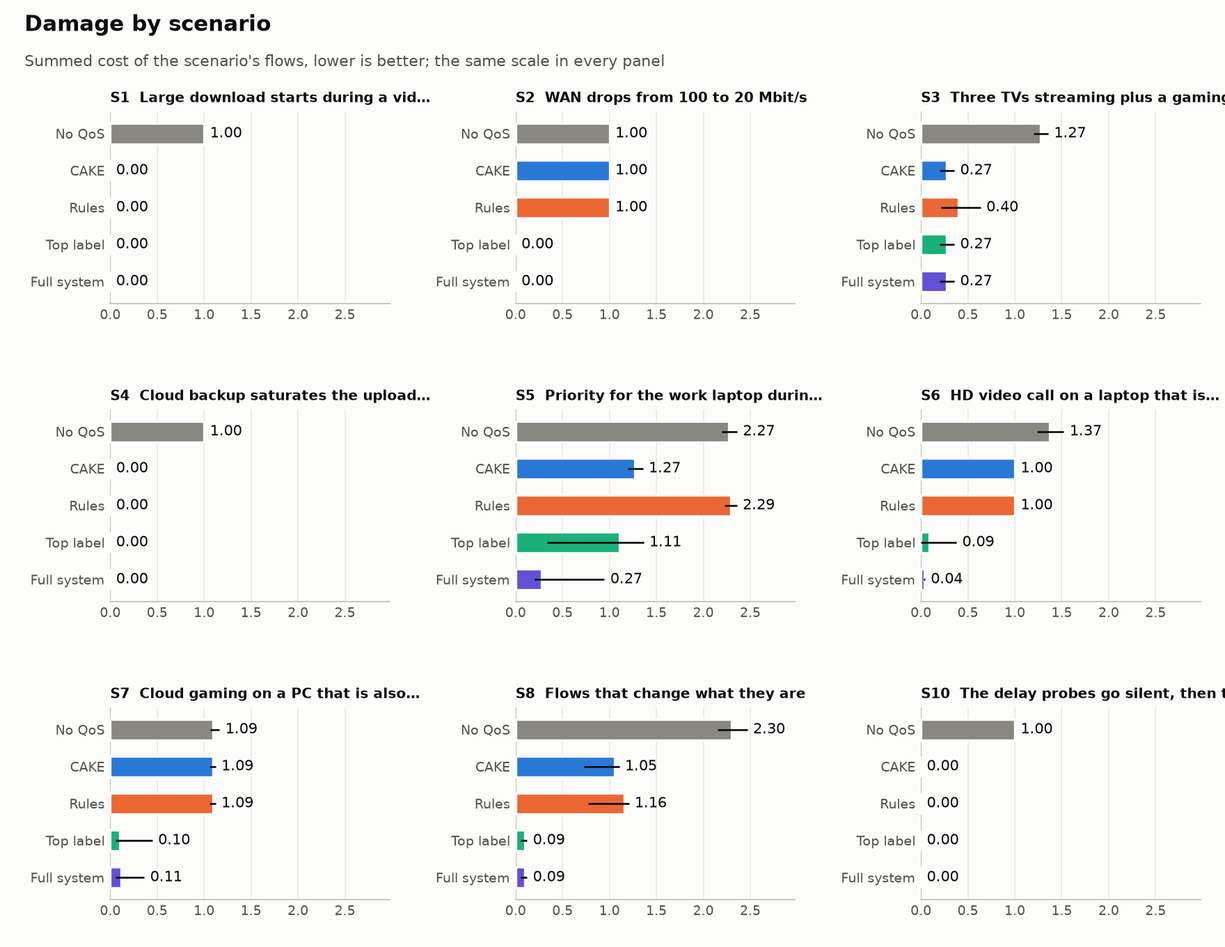
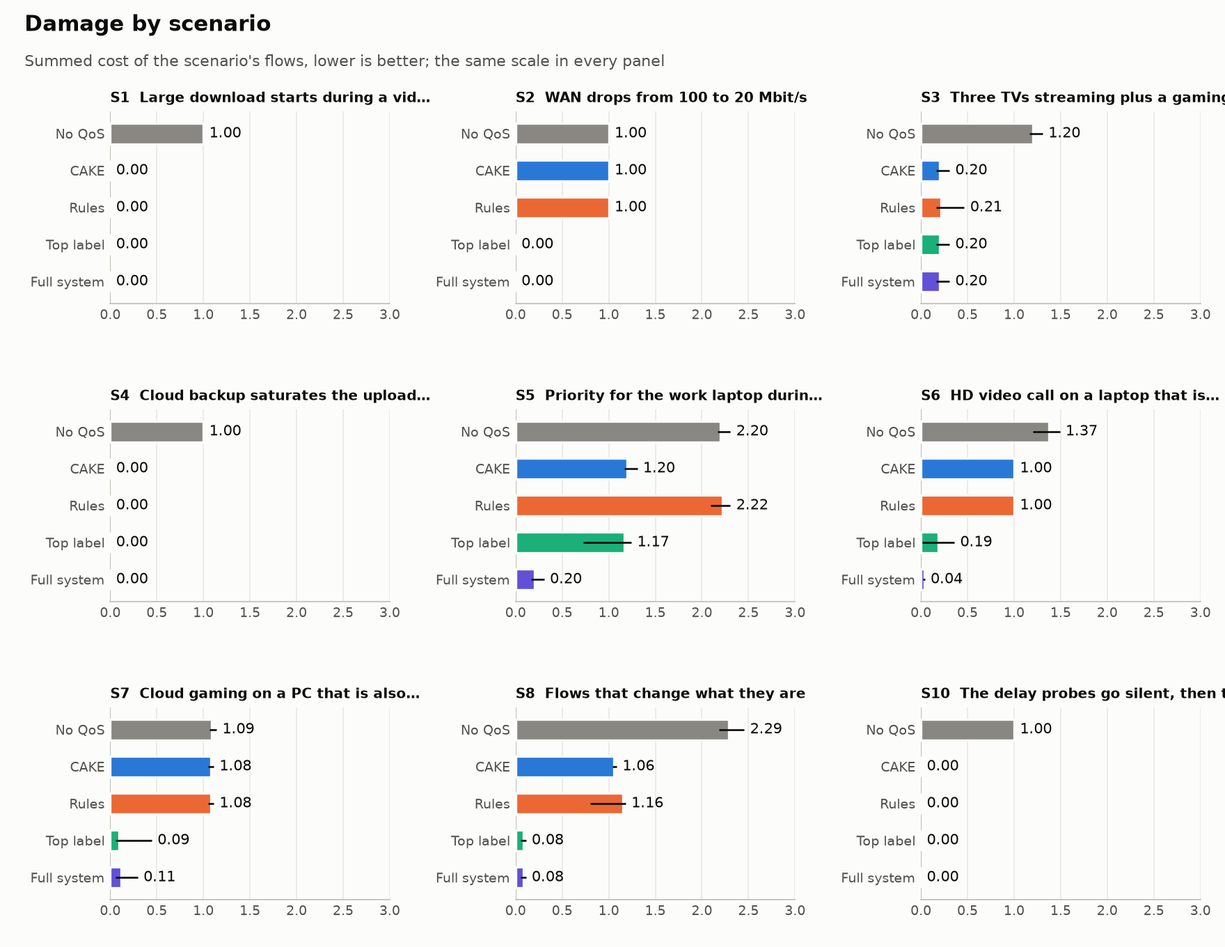
Case study on all ten seeds of the pre-freeze system, with the A/A noise band

diff --git a/reports/case-study/index.html b/reports/case-study/index.html
@@ -97,22 +97,22 @@ hr { border: 0; border-top: 1px solid var(--rule); margin: 0; }
 <main class="page">
 
 <header>
-  <p class="eyebrow">Teliport Season 4 · case study · interim, 6 of 10 seeds</p>
+  <p class="eyebrow">Teliport Season 4 · case study · all 10 seeds of the pre-freeze system</p>
   <h1>Adaptive QoS Engine</h1>
   <p class="lede">A home router that recognises a video call, a game or a download from packet sizes and timing alone, and puts each in the right priority queue of Linux CAKE. It beats plain CAKE when a call or a game shares its device with bulk traffic, ties it when they are alone on their devices, and never did worse than the hand-written threshold rules that existing tools use.</p>
-  <p class="meta">Measured Oct 13–14, 2026 · 270 runs, all valid · reference laptop: Fedora 43, kernel 7.2.8, 16 cores</p>
+  <p class="meta">Measured Oct 13–15, 2026 · 450 runs and 90 A/A runs, all valid · reference laptop: Fedora 43, kernel 7.2.8, 16 cores</p>
 </header>
 
 <section class="wide" aria-label="Headline results">
   <div class="figures">
-    <div class="figure-cell"><span class="big ours num">94% → 2%</span><span class="what">late frames of an HD video call on a laptop that is also sharing files (S6): plain CAKE against the classifier. Won by the classifier.</span></div>
-    <div class="figure-cell"><span class="big ours num">83% → 0.6%</span><span class="what">late frames of a cloud game on a PC fetching an update (S7). The threshold rules: 19%. Won by the classifier.</span></div>
-    <div class="figure-cell"><span class="big ours num">56% → 0.9%</span><span class="what">late frames of a call when the line drops to a fifth of its speed (S2). Won by the capacity estimator, not the classifier.</span></div>
-    <div class="figure-cell"><span class="big ours num">53 / 54</span><span class="what">scenario runs as good as plain CAKE or better: 29 wins, 24 ties, 1 loss (cause found, fix being rerun).</span></div>
+    <div class="figure-cell"><span class="big ours num">94% → 1.7%</span><span class="what">late frames of an HD video call on a laptop that is also sharing files (S6): plain CAKE against the classifier. Won by the classifier.</span></div>
+    <div class="figure-cell"><span class="big ours num">83% → 0.7%</span><span class="what">late frames of a cloud game on a PC fetching an update (S7). The threshold rules: 19%. Won by the classifier.</span></div>
+    <div class="figure-cell"><span class="big ours num">56% → 1.0%</span><span class="what">late frames of a call when the line drops to a fifth of its speed (S2). Won by the capacity estimator, not the classifier.</span></div>
+    <div class="figure-cell"><span class="big ours num">89 / 90</span><span class="what">seed-paired runs as good as plain CAKE or better: 48 wins, 41 ties, 1 loss (cause found and fixed in the frozen system). Against the threshold rules: 52 wins, 38 ties, no loss.</span></div>
   </div>
 </section>
 
-<p class="status"><strong>Interim.</strong> Six of the ten planned seeds are in. The last four, a set of A/A runs to measure noise between identical runs, and a rerun with one fix to the capacity estimator finish on Oct 15. Numbers will tighten; on six seeds the direction is already clear. The final test set of real captures has not been opened yet, by design.</p>
+<p class="status"><strong>Still interim, now on all ten seeds.</strong> Every number on this page comes from the system as it was before the freeze, on seeds 0 to 9, with noise between identical runs measured (A/A runs). The six-seed picture held. The system was frozen on Oct 15 at 07:41 with three changes (a safer rule for demotion to Bulk, a fix to the capacity estimator, a model retrained with real WhatsApp calls), and its final runs end around Oct 16, 09:00: the classifier setups rerun on seeds 0 to 9, fresh seeds 10 to 14, a scenario never run before, and cake-autorate as a new rival. Those replace the numbers here. The sealed test set of real captures is still unopened, by design.</p>
 
 <section>
   <p class="eyebrow">The problem</p>
@@ -175,35 +175,35 @@ flowchart LR
 <section class="wide">
   <p class="eyebrow">Results in raw measurements</p>
   <h2>What the calls and games experienced</h2>
-  <p>The cost scale below is the same yardstick the decision engine optimises, so the raw measurements come first. Median of six seeds; late frames are video or game frames that missed their deadline (100 ms for calls, 50 ms for games).</p>
+  <p>The cost scale below is the same yardstick the decision engine optimises, so the raw measurements come first. Median of ten seeds; late frames are video or game frames that missed their deadline (100 ms for calls, 50 ms for games).</p>
   <div class="table-wrap">
     <table>
       <thead><tr><th>Scenario</th><th>Flow</th><th>Measure</th><th class="n">CAKE</th><th class="n">Rules</th><th class="n">Top label</th><th class="n ours">Full system</th><th>Won by</th></tr></thead>
       <tbody>
-        <tr><td class="tag">S2</td><td>call</td><td>late frames, %</td><td class="n">55.5</td><td class="n">55.6</td><td class="n">0.9</td><td class="n ours">0.9</td><td>capacity estimator</td></tr>
-        <tr><td class="tag">S2</td><td>call</td><td>latency p95, ms</td><td class="n">502.5</td><td class="n">498.9</td><td class="n">21.7</td><td class="n ours">20.1</td><td></td></tr>
-        <tr><td class="tag">S5</td><td>call</td><td>late frames, %</td><td class="n">92.9</td><td class="n">74.0</td><td class="n">21.4</td><td class="n ours">0.1</td><td>classifier, expected damage</td></tr>
-        <tr><td class="tag">S5</td><td>game</td><td>late frames, %</td><td class="n">0.0</td><td class="n">29.1</td><td class="n">0.0</td><td class="n ours">0.0</td><td></td></tr>
-        <tr><td class="tag">S6</td><td>call</td><td>late frames, %</td><td class="n">94.3</td><td class="n">94.4</td><td class="n">2.6</td><td class="n ours">1.7</td><td>classifier</td></tr>
-        <tr><td class="tag">S6</td><td>call</td><td>latency p95, ms</td><td class="n">1,785</td><td class="n">2,063</td><td class="n">24.4</td><td class="n ours">16.7</td><td></td></tr>
-        <tr><td class="tag">S7</td><td>game</td><td>late frames, %</td><td class="n">83.2</td><td class="n">19.4</td><td class="n">0.5</td><td class="n ours">0.6</td><td>classifier</td></tr>
-        <tr><td class="tag">S7</td><td>game</td><td>latency p95, ms</td><td class="n">925</td><td class="n">22.0</td><td class="n">17.9</td><td class="n ours">17.9</td><td></td></tr>
-        <tr><td class="tag">S8</td><td>call</td><td>late frames, %</td><td class="n">39.2</td><td class="n">23.6</td><td class="n">0.1</td><td class="n ours">0.0</td><td>classifier</td></tr>
-        <tr><td class="tag">S3</td><td>game</td><td>latency p95, ms</td><td class="n">17.6</td><td class="n">39.8</td><td class="n">17.1</td><td class="n ours">17.1</td><td>tie</td></tr>
+        <tr><td class="tag">S2</td><td>call</td><td>late frames, %</td><td class="n">55.5</td><td class="n">55.6</td><td class="n">0.9</td><td class="n ours">1.0</td><td>capacity estimator</td></tr>
+        <tr><td class="tag">S2</td><td>call</td><td>latency p95, ms</td><td class="n">501.7</td><td class="n">499.0</td><td class="n">20.8</td><td class="n ours">19.4</td><td></td></tr>
+        <tr><td class="tag">S5</td><td>call</td><td>late frames, %</td><td class="n">93.3</td><td class="n">78.7</td><td class="n">42.9</td><td class="n ours">0.2</td><td>classifier, expected damage</td></tr>
+        <tr><td class="tag">S5</td><td>game</td><td>late frames, %</td><td class="n">0.0</td><td class="n">22.3</td><td class="n">0.0</td><td class="n ours">0.0</td><td></td></tr>
+        <tr><td class="tag">S6</td><td>call</td><td>late frames, %</td><td class="n">94.3</td><td class="n">94.4</td><td class="n">4.5</td><td class="n ours">1.7</td><td>classifier</td></tr>
+        <tr><td class="tag">S6</td><td>call</td><td>latency p95, ms</td><td class="n">1,786</td><td class="n">2,063</td><td class="n">24.8</td><td class="n ours">16.9</td><td></td></tr>
+        <tr><td class="tag">S7</td><td>game</td><td>late frames, %</td><td class="n">83.2</td><td class="n">19.4</td><td class="n">0.6</td><td class="n ours">0.7</td><td>classifier</td></tr>
+        <tr><td class="tag">S7</td><td>game</td><td>latency p95, ms</td><td class="n">799</td><td class="n">21.2</td><td class="n">19.4</td><td class="n ours">19.3</td><td></td></tr>
+        <tr><td class="tag">S8</td><td>call</td><td>late frames, %</td><td class="n">61.8</td><td class="n">30.8</td><td class="n">0.2</td><td class="n ours">0.0</td><td>classifier</td></tr>
+        <tr><td class="tag">S3</td><td>game</td><td>latency p95, ms</td><td class="n">16.0</td><td class="n">32.3</td><td class="n">15.4</td><td class="n ours">15.4</td><td>tie</td></tr>
         <tr><td class="tag">S1, S4, S10</td><td>call, game</td><td>late frames, %</td><td class="n">0.0</td><td class="n">0.0</td><td class="n">0.0</td><td class="n ours">0.0</td><td>tie</td></tr>
       </tbody>
     </table>
   </div>
-  <p class="meta">Download and stream throughput enter through the cost scale below, judged against the same flow under plain CAKE. Fairness between devices (Jain's index) and per-component CPU are not yet computed.</p>
+  <p class="meta">Download and stream throughput enter through the cost scale below, judged against the same flow under plain CAKE. Fairness between devices (Jain's index) is not computed; CPU per component is recorded in the final runs.</p>
 </section>
 
 <section class="wide">
   <p class="eyebrow">Results on one scale</p>
-  <h2>Seven times fewer ruined flows than plain CAKE, on this scenario mix</h2>
-  <p>Summed over the nine scenarios, the full system leaves 0.73 flows unusable against plain CAKE's 5.58. That ratio depends on the scenario mix: four of the nine (S5 to S8) were written, or rewritten, after the damage measurements showed where CAKE fails. Read it as a summary of the table above, not as a claim about homes in general.</p>
+  <h2>Eight times fewer ruined flows than plain CAKE, on this scenario mix</h2>
+  <p>Summed over the nine scenarios, the full system leaves 0.66 flows unusable against plain CAKE's 5.54 (median of ten seeds; 95% intervals 0.47 to 1.16 and 5.41 to 5.67). That ratio depends on the scenario mix: four of the nine (S5 to S8) were written, or rewritten, after the damage measurements showed where CAKE fails. Read it as a summary of the table above, not as a claim about homes in general.</p>
   <figure>
-    <img src="charts/total-cost.png" alt="Bar chart of damage summed over all nine scenarios, median of six seeds: no QoS 12.31, plain CAKE 5.58, CAKE with threshold rules 6.91, classifier by top label 1.65, full system 0.73." width="1280" height="576" loading="lazy">
-    <figcaption>Per seed, the nine scenarios' costs are added up; the bar is the median over six seeds and the whisker its 95% bootstrap interval. The threshold rules do worse than plain CAKE: they push games and calls into Bulk.</figcaption>
+    <img src="charts/total-cost.png" alt="Bar chart of damage summed over all nine scenarios, median of ten seeds: no QoS 12.21, plain CAKE 5.54, CAKE with threshold rules 6.61, classifier by top label 1.74, full system 0.66." width="1280" height="576" loading="lazy">
+    <figcaption>Per seed, the nine scenarios' costs are added up; the bar is the median over ten seeds and the whisker its 95% bootstrap interval. The threshold rules do worse than plain CAKE: they push games and calls into Bulk.</figcaption>
   </figure>
   <figure>
     <img src="charts/cost-by-scenario.png" alt="Nine small bar charts, one per scenario, comparing the five router setups." width="1760" height="1360" loading="lazy">
@@ -218,17 +218,18 @@ flowchart LR
       <tbody>
         <tr><td class="tag">S1</td><td>Large download starts during a video call</td><td class="n">1.00</td><td class="n">0.00</td><td class="n">0.00</td><td class="n">0.00</td><td class="n ours">0.00</td><td class="tie">tie</td></tr>
         <tr><td class="tag">S2</td><td>Line drops from 100 to 20 Mbit/s mid-call</td><td class="n">1.00</td><td class="n">1.00</td><td class="n">1.00</td><td class="n">0.00</td><td class="n ours">0.00</td><td class="win">better</td></tr>
-        <tr><td class="tag">S3</td><td>Three TVs streaming and a game console</td><td class="n">1.27</td><td class="n">0.27</td><td class="n">0.40</td><td class="n">0.27</td><td class="n ours">0.27</td><td class="tie">tie</td></tr>
+        <tr><td class="tag">S3</td><td>Three TVs streaming and a game console</td><td class="n">1.20</td><td class="n">0.20</td><td class="n">0.21</td><td class="n">0.20</td><td class="n ours">0.20</td><td class="tie">tie</td></tr>
         <tr><td class="tag">S4</td><td>Cloud backup fills the upload during a game</td><td class="n">1.00</td><td class="n">0.00</td><td class="n">0.00</td><td class="n">0.00</td><td class="n ours">0.00</td><td class="tie">tie</td></tr>
-        <tr><td class="tag">S5</td><td>Work call on a laptop that is backing up, busy evening, priority lease</td><td class="n">2.27</td><td class="n">1.27</td><td class="n">2.29</td><td class="n">1.11</td><td class="n ours">0.27</td><td class="win">better</td></tr>
-        <tr><td class="tag">S6</td><td>HD video call on a laptop that is also sharing files</td><td class="n">1.37</td><td class="n">1.00</td><td class="n">1.00</td><td class="n">0.09</td><td class="n ours">0.04</td><td class="win">better</td></tr>
-        <tr><td class="tag">S7</td><td>Cloud game on a PC that is also fetching a game update</td><td class="n">1.09</td><td class="n">1.09</td><td class="n">1.09</td><td class="n">0.10</td><td class="n ours">0.11</td><td class="win">better</td></tr>
-        <tr><td class="tag">S8</td><td>Camera off and on, lobby to match, download paused</td><td class="n">2.30</td><td class="n">1.05</td><td class="n">1.16</td><td class="n">0.09</td><td class="n ours">0.09</td><td class="win">better</td></tr>
+        <tr><td class="tag">S5</td><td>Work call on a laptop that is backing up, busy evening, priority lease</td><td class="n">2.20</td><td class="n">1.20</td><td class="n">2.22</td><td class="n">1.17</td><td class="n ours">0.20</td><td class="win">better</td></tr>
+        <tr><td class="tag">S6</td><td>HD video call on a laptop that is also sharing files</td><td class="n">1.37</td><td class="n">1.00</td><td class="n">1.00</td><td class="n">0.19</td><td class="n ours">0.04</td><td class="win">better</td></tr>
+        <tr><td class="tag">S7</td><td>Cloud game on a PC that is also fetching a game update</td><td class="n">1.09</td><td class="n">1.08</td><td class="n">1.08</td><td class="n">0.09</td><td class="n ours">0.11</td><td class="win">better</td></tr>
+        <tr><td class="tag">S8</td><td>Camera off and on, lobby to match, download paused</td><td class="n">2.29</td><td class="n">1.06</td><td class="n">1.16</td><td class="n">0.08</td><td class="n ours">0.08</td><td class="win">better</td></tr>
         <tr><td class="tag">S10</td><td>Probe targets go silent, then the controller is killed</td><td class="n">1.00</td><td class="n">0.00</td><td class="n">0.00</td><td class="n">0.00</td><td class="n ours">0.00</td><td class="tie">tie</td></tr>
-      </tbody>
+        </tbody>
     </table>
   </div>
-  <p class="meta">Summed cost per scenario, median of six seeds. "Better" means the 95% interval of the seed-by-seed difference lies wholly below zero.</p>
+  <p class="meta">Summed cost per scenario, median of ten seeds. "Better" means the 95% interval of the seed-by-seed difference lies wholly below zero and outside the noise band.</p>
+  <p><strong>Noise between identical runs.</strong> Ninety A/A runs (plain CAKE, the same seed twice) gave exactly the same summed cost in eight of the nine scenarios. Only S8 varies, by up to 0.14 (its call is sometimes partly hurt), so in S8 a difference smaller than that counts as a tie. Every win above is far outside it.</p>
 </section>
 
 <section class="wide">
@@ -261,9 +262,9 @@ flowchart LR
   <h2>Against each rival, seed by seed</h2>
   <figure>
     <img src="charts/against-cake.png" alt="Three dot plots of the paired difference in summed cost between the full system and plain CAKE, threshold rules, and top label, with 95% intervals." width="1872" height="908" loading="lazy">
-    <figcaption>Left of zero the full system is better. Against plain CAKE and the rules it is better or tied in every scenario. Against the simpler top-label rule it ties most scenarios and wins S5, where one backup connection sat just under top label's 80% bar for demotion and stayed in Best Effort beside the call.</figcaption>
+    <figcaption>Left of zero the full system is better. Against plain CAKE and the rules it is better or tied in every scenario. Against the simpler top-label rule it ties most scenarios, wins S5, and leans its way in S6 (interval just crossing zero).</figcaption>
   </figure>
-  <p><strong>Expected damage against top label is not yet proven live.</strong> The two tie everywhere except S5, and S5's margin comes from where a confidence bar fell, which is closer to a threshold effect than to the argument for expected damage. Offline the gap is clear (0.14 against 0.29 balanced expected damage), but the experiment that tests the argument directly, both rules run with a deliberately weakened classifier, is still to come.</p>
+  <p><strong>Expected damage against top label: ahead, not yet decisive live.</strong> On ten seeds the full system beats top label in S5 (−1.00, p 0.010) and is ahead in S6 (−0.16, interval −0.32 to +0.03); elsewhere they tie. Seed by seed it was better in 18 runs, tied in 65 and worse in 7, all seven by small margins. S5's margin partly comes from where a confidence bar fell. Offline the gap is clear (0.14 against 0.29 balanced expected damage), and with a deliberately weakened classifier expected damage stayed ahead at every noise level offline; the live version of that test is part of the final runs.</p>
 </section>
 
 <section>
@@ -272,10 +273,10 @@ flowchart LR
   <p>Three changes to the system were made because an evaluation scenario exposed a problem: two corrections to how the damage table is scored, the bar on Voice, and the download-first rule in the capacity estimator. The smoke runs that found the first ones used seed 1, which is also one of the ten matrix seeds, and the estimator problem was found in matrix seed 0 itself. That is how a system gets fitted to its own test, so the final numbers will be reported three ways:</p>
   <ul class="plain">
     <li>On the matrix seeds, with seed 1 marked as a development seed.</li>
-    <li>On ten fresh seeds, 10 to 19, run once after the system is frozen, every configuration rerun, not only the ones that changed.</li>
-    <li>On one or two scenarios written after the freeze, run once and reported whatever happens.</li>
+    <li>On five fresh seeds, 10 to 14, run once after the system was frozen, with plain CAKE, the rules and both classifier setups.</li>
+    <li>On S11, a scenario written before the freeze but never run during development (a 50/10 line, a call beside a download, a console game beside an update, a voice call beside a backup), run once and reported whatever happens.</li>
   </ul>
-  <p>The comparison for S2 is also incomplete. It pits an adaptive shaper against a fixed one, which any adaptive shaper wins. The community standard, cake-autorate, will be added as configuration B3 on S2 and S5; matching it would make the claim "as good as the standard tool, built in".</p>
+  <p>The comparison for S2 is also incomplete. It pits an adaptive shaper against a fixed one, which any adaptive shaper wins. The community standard, cake-autorate (v3.2.2, unmodified), is now configuration B3 on S2 and S5 in the final runs; matching it would make the claim "as good as the standard tool, built in".</p>
 </section>
 
 <section>
@@ -361,7 +362,8 @@ flowchart LR
       </tbody>
     </table>
   </div>
-  <p>Share of each flow's records, by where the full system's decision rule placed them. The WhatsApp video calls were labelled "voice call" on every record and still went to Voice or Video every time. Unseen cloud gaming mostly fell back to Best Effort, which is where plain CAKE would have left it. The weakness is the 16% of unseen video-call records sent to Bulk: there the model was confidently wrong, above the 80% bar for demotion, so the bar did not catch it. Demotion to Bulk therefore needs evidence besides the model's confidence, and that is the next change to the decision rule.</p>
+  <p>Share of each flow's records, by where the full system's decision rule placed them. The WhatsApp video calls were labelled "voice call" on every record and still went to Voice or Video every time. Unseen cloud gaming mostly fell back to Best Effort, which is where plain CAKE would have left it. The weakness is the 16% of unseen video-call records sent to Bulk: there the model was confidently wrong, above the 80% bar for demotion, so the bar did not catch it. Demotion to Bulk therefore needed evidence besides the model's confidence. <strong>Fixed in the frozen system:</strong> no demotion on a flow's first eight packets alone, and none for UDP, where calls and games live. On the same held-out sources, Bulk placements fell to 0% for unseen video calls, cloud games and downloads (from 16%, 2% and 10%). The cost: peer-to-peer over UDP stays in Best Effort, and offline balanced damage rises from 0.141 to 0.242, still a third of the tuned rules' 0.745.</p>
+  <p><strong>Retrained with real calls.</strong> Dataset v2 adds the six WhatsApp calls. The retrained model (lgbm-v2-b3f691d8, temperature calibration) scores accuracy 0.972 and macro-F1 0.80 on 43,221 held-out records, and is the one in the final runs. It also runs without Python now: the trees and the decision rule were ported to Go, give the same answers as Python (probabilities within 4×10⁻¹⁶ on 2,000 records, the same tin on every one) and take about 6 µs per flow.</p>
   <figure>
     <img src="charts/damage-table.png" alt="Heatmap of the measured damage table: seven traffic classes by four tins." width="1056" height="736" loading="lazy">
     <figcaption>The measured damage table the decision engine reads. A game in Bulk costs 6; a download in Video costs 4.5 because it hurts the calls beside it; a background transfer belongs in Bulk because anywhere else it takes upload a call needs.</figcaption>
@@ -375,7 +377,7 @@ flowchart LR
   <div class="findings">
     <div class="finding"><h3>A tin only matters when the flow has company on its device</h3><p>The first damage measurements had every flow alone on its device, and every tin looked almost the same. A cloud game on a PC fetching an update got 0.6 of its 16.7 Mbit/s in Best Effort and all of it in Video. That reshaped the scenarios and the claim.</p></div>
     <div class="finding"><h3>The damage table is a model of what matters, and it was wrong three times</h3><p>Each gap was found by a scenario: no reward for demoting a backup beside a call; a call apparently better off in Bulk because ruining it freed room for another call; Voice rated harmless for everything because each flow was measured there alone. The last one made the full system lose S7 in the first smoke run (51% late frames) until Voice was limited to flows the model is over 50% sure are calls or games. After that fix, in the smoke run, the full system matched or beat every rival on every scenario.</p></div>
-    <div class="finding"><h3>Round-trip probes cannot tell which way the queue is</h3><p>The one run where the full system lost to plain CAKE (S5, seed 0) had three streams queueing on the way down while the estimator also cut the upload, eleven times, to 2.2 Mbit/s on a 5 Mbit/s line, and the call no longer fitted. The fix cuts the download first, since its queue can be measured, and the upload only if the delay outlasts that by two seconds. It is tested and is being rerun.</p></div>
+    <div class="finding"><h3>Round-trip probes cannot tell which way the queue is</h3><p>The one run where the full system lost to plain CAKE (S5, seed 0) had three streams queueing on the way down while the estimator also cut the upload, eleven times, to 2.2 Mbit/s on a 5 Mbit/s line, and the call no longer fitted. The fix cuts the download first, since its queue can be measured, and the upload only if the delay outlasts that by two seconds. It is in the frozen system, and S5 is part of the final rerun.</p></div>
     <div class="finding"><h3>With nothing to go on, do nothing</h3><p>The first design sent the shaper to a low fixed rate when the probe targets stopped answering. In S10 the link was fine and only the targets were gone, and the fallback broke a call. The estimator now holds its rate while deaf, and S10 costs nothing.</p></div>
     <div class="finding"><h3>Simulations shared their author's blind spots</h3><p>The capacity estimator passed every test against a simulated link and failed four times on the real one: slow answers counted as lost, a rate parked just above the link, a cut sized by a quiet second before a burst, unreachable targets read as delay. All four are now regression tests.</p></div>
   </div>
@@ -386,10 +388,10 @@ flowchart LR
   <h2>What these numbers do not show</h2>
   <ul class="plain">
     <li><strong>Generated calls and games do not adapt their bitrate.</strong> Short of bandwidth, a real app lowers its quality; ours lose packets. "Plain CAKE breaks the call" is true, but how badly is the generator's.</li>
-    <li><strong>The model has partly learned the lab.</strong> On a data source it never saw, its labels are often wrong. Its placements mostly stay safe, but 16% of unseen video-call records went to Bulk (the tables above). The remedies are a decision rule that will not demote on confidence alone, and more sources per class; six WhatsApp calls recorded this week are a start.</li>
+    <li><strong>The model has partly learned the lab.</strong> On a data source it never saw, its labels are often wrong. The frozen system's guard keeps such traffic out of Bulk, but a wrong label can still leave a call in Best Effort beside bulk traffic. More sources per class is the real remedy; six WhatsApp calls are a start.</li>
     <li><strong>Self-graded metric.</strong> The cost scale is the one the damage table, and so the decision engine, is built from. The raw measurements table is the evidence; the cost is a summary of it.</li>
-    <li><strong>Six seeds.</strong> A bootstrap interval from six pairs is unstable, and the smallest possible Wilcoxon p-value with six pairs is 0.031. Ten seeds and the A/A noise band come next.</li>
-    <li><strong>Not yet measured:</strong> CPU per component at 25, 50 and 100 Mbit/s; a flood of short flows (S9); fairness between devices; IPv6 traffic end to end (the marking is tested on IPv6, the scenarios run on IPv4); traffic inside a VPN.</li>
+    <li><strong>Tuned partly on its own test.</strong> The ten seeds here include the ones the fixes were found on. The fresh seeds and S11 in the final runs are the answer; until then, read these as development results.</li>
+    <li><strong>Not yet measured:</strong> CPU per component (recorded in the final runs); a flood of short flows (S9); fairness between devices; IPv6 traffic end to end (the marking is tested on IPv6, the scenarios run on IPv4); traffic inside a VPN.</li>
     <li><strong>One machine, one testbed.</strong> Rates from 25 to 100 Mbit/s on emulated links. Gigabit rates and real home hardware are untested.</li>
     <li><strong>Thresholds are judgements.</strong> What counts as an unusable call or a slowed download is written in a scoring file; the raw measurements are kept so other judgements can be applied without new runs.</li>
     <li><strong>The reclassifier is not yet stressed.</strong> In S8 the right tin never changes; the reclassifier mostly corrects first labels. A scenario where the right tin changes is still to be written.</li>
@@ -401,12 +403,11 @@ flowchart LR
   <p class="eyebrow">Next</p>
   <h2>To finish the evidence</h2>
   <ol class="steps">
-    <li>Seeds 6 to 9 of the matrix, then A/A runs of plain CAKE to measure noise between identical runs (Oct 15).</li>
-    <li>Freeze the system with the download-first fix. Rerun every configuration on fresh seeds 10 to 19, and run one or two scenarios written after the freeze, once.</li>
-    <li>cake-autorate as configuration B3 on S2 and S5.</li>
-    <li>Expected damage against top label with a deliberately weakened classifier: the test of the decision rule itself.</li>
-    <li>CPU per component; one call generator driven by a real congestion controller, so that "CAKE breaks the call" can be stated as the bitrate a real call would fall to.</li>
-    <li>Dataset v2 with six new WhatsApp calls, retraining, then open the sealed final test set of real captures, once.</li>
+    <li><s>Seeds 6 to 9 of the matrix and the A/A noise runs.</s> Done Oct 15: 450 and 90 runs, all valid.</li>
+    <li><s>Safer demotion rule, estimator fix, dataset v2 and retraining, the Go classifier, cake-autorate as B3, S11.</s> Done, and frozen Oct 15 at 07:41.</li>
+    <li>Final runs, under way: classifier setups rerun on seeds 0 to 9; fresh seeds 10 to 14 with S11; B3 on S2 and S5; expected damage against top label with a weakened classifier at three noise levels; CPU per component. Ends around Oct 16, 09:00.</li>
+    <li>Open the sealed final test set of real captures, once.</li>
+    <li>Later: a call generator driven by a real congestion controller, so that "CAKE breaks the call" can be stated as the bitrate a real call would fall to; a real router.</li>
   </ol>
 </section>
 
@@ -416,9 +417,9 @@ flowchart LR
   <pre class="cmd">make check                         # 200+ unit tests, Go and Python
 make testbed-check                 # 16 tests against the real testbed
 PYTHONPATH=ml .venv/bin/python -m aqos_ml.run matrix configs/matrix-core.yaml --results results-core
-PYTHONPATH=ml .venv/bin/python -m aqos_ml.report --results results-core --out reports/core.md
+PYTHONPATH=ml .venv/bin/python -m aqos_ml.report --results results-core --aa results-aa --out reports/core.md
 PYTHONPATH=ml .venv/bin/python -m aqos_ml.charts --results results-core --out reports/charts</pre>
-  <p class="meta">Rootless: no sudo needed for any experiment. Model lgbm-v1-fe91bbad, dataset v1 (sha256 fe91bbad5e5e), measured damage table with two seeds per cell.</p>
+  <p class="meta">Rootless: no sudo needed for any experiment. Results on this page: model lgbm-v1-fe91bbad, dataset v1 (sha256 fe91bbad5e5e). Final runs: lgbm-v2-b3f691d8, dataset v2. Measured damage table with two seeds per cell.</p>
 </section>
 
 </main>

diff --git a/reports/core.md b/reports/core.md
@@ -1,0 +1,120 @@
+# Matrix results: `results-core/`
+
+Lower is better everywhere. Cost is 0 for as good as it gets and 1 for unusable, per traffic entry, summed over a scenario's entries. Intervals are 95% bootstrap intervals of the median over seeds. A comparison reads "verdict: median paired difference (interval), p, r"; negative means the first configuration is better; r is the rank-biserial effect size, -1 when it was better on every seed.
+
+## Runs
+
+| Scenario | B0 | B2 | B4 | O1 | O2 |
+| --- | --- | --- | --- | --- | --- |
+| S1 Large download starts during a video call | 10 | 10 | 10 | 10 | 10 |
+| S2 WAN drops from 100 to 20 Mbit/s | 10 | 10 | 10 | 10 | 10 |
+| S3 Three TVs streaming plus a gaming device | 10 | 10 | 10 | 10 | 10 |
+| S4 Cloud backup saturates the upload during gaming | 10 | 10 | 10 | 10 | 10 |
+| S5 Priority for the work laptop during a busy evening | 10 | 10 | 10 | 10 | 10 |
+| S6 HD video call on a laptop that is also sharing files | 10 | 10 | 10 | 10 | 10 |
+| S7 Cloud gaming on a PC that is also fetching a game update | 10 | 10 | 10 | 10 | 10 |
+| S8 Flows that change what they are | 10 | 10 | 10 | 10 | 10 |
+| S10 The delay probes go silent, then the controller is killed | 10 | 10 | 10 | 10 | 10 |
+
+Valid runs per scenario and configuration. Noise bands from A/A runs are applied.
+
+## Summed cost, configuration against configuration
+
+| Scenario | O2 against B4 | O2 against O1 | O2 against B2 | O1 against B2 | B4 against B2 | B2 against B0 |
+| --- | --- | --- | --- | --- | --- | --- |
+| S1 | tie: +0.00 (+0.00 to +0.00) | tie: +0.00 (+0.00 to +0.00) | tie: +0.00 (+0.00 to +0.00) | tie: +0.00 (+0.00 to +0.00) | tie: +0.00 (+0.00 to +0.00) | better: -1.00 (-1.00 to -1.00), p 0.041, r -1.00 |
+| S2 | better: -1.00 (-1.00 to -1.00), p 0.002, r -1.00 | tie: +0.00 (+0.00 to +0.00), p 1.000, r +0.33 | better: -1.00 (-1.00 to -1.00), p 0.041, r -1.00 | better: -1.00 (-1.00 to -1.00), p 0.041, r -1.00 | tie: +0.00 (+0.00 to +0.00) | tie: +0.00 (+0.00 to +0.00) |
+| S3 | tie: +0.00 (-0.11 to +0.00), p 0.250, r -1.00 | tie: +0.00 (+0.00 to +0.00) | tie: +0.00 (+0.00 to +0.00) | tie: +0.00 (+0.00 to +0.00) | tie: +0.00 (+0.00 to +0.11), p 0.500, r +1.00 | better: -1.00 (-1.00 to -1.00), p 0.041, r -1.00 |
+| S4 | tie: +0.00 (+0.00 to +0.00) | tie: +0.00 (+0.00 to +0.00) | tie: +0.00 (+0.00 to +0.00) | tie: +0.00 (+0.00 to +0.00) | tie: +0.00 (+0.00 to +0.00) | better: -1.00 (-1.00 to -1.00), p 0.041, r -1.00 |
+| S5 | better: -2.00 (-2.03 to -1.83), p 0.002, r -1.00 | better: -1.00 (-1.00 to -0.13), p 0.010, r -0.89 | better: -1.00 (-1.00 to -1.00), p 0.041, r -0.96 | tie: +0.00 (-0.43 to +0.01), p 0.500, r -0.43 | worse: +1.00 (+0.91 to +1.03), p 0.041, r +1.00 | better: -1.00 (-1.00 to -1.00), p 0.041, r -1.00 |
+| S6 | better: -0.96 (-0.98 to -0.96), p 0.002, r -1.00 | tie: -0.16 (-0.32 to +0.03), p 0.025, r -0.78 | better: -0.96 (-0.98 to -0.96), p 0.041, r -1.00 | better: -0.81 (-0.99 to -0.64), p 0.041, r -1.00 | tie: +0.00 (+0.00 to +0.00) | better: -0.37 (-0.49 to -0.20), p 0.041, r -1.00 |
+| S7 | better: -1.00 (-1.00 to -0.80), p 0.004, r -1.00 | tie: +0.00 (+0.00 to +0.01), p 1.000, r +0.00 | better: -1.00 (-1.00 to -0.80), p 0.041, r -1.00 | better: -1.00 (-1.00 to -0.67), p 0.041, r -1.00 | tie: +0.00 (+0.00 to +0.00) | tie: -0.01 (-0.04 to +0.00), p 0.125, r -1.00 |
+| S8 | better: -1.07 (-1.09 to -0.75), p 0.002, r -1.00 | tie: +0.00 (+0.00 to +0.00) | better: -1.00 (-1.00 to -0.93), p 0.041, r -1.00 | better: -1.00 (-1.00 to -0.93), p 0.041, r -1.00 | tie: +0.07 (+0.00 to +0.10), p 0.492, r +0.56 | better: -1.24 (-1.42 to -1.11), p 0.041, r -1.00 |
+| S10 | tie: +0.00 (+0.00 to +0.00) | tie: +0.00 (+0.00 to +0.00) | tie: +0.00 (+0.00 to +0.00) | tie: +0.00 (+0.00 to +0.00) | tie: +0.00 (+0.00 to +0.00) | better: -1.00 (-1.00 to -1.00), p 0.041, r -1.00 |
+
+O2 against B4 and O2 against O1 were named in advance; the p-values of the others are Holm-corrected.
+
+## Summed cost, median over seeds
+
+| Scenario | B0 | B2 | B4 | O1 | O2 |
+| --- | --- | --- | --- | --- | --- |
+| S1 | 1.00 (1.00 to 1.00) | 0.00 (0.00 to 0.00) | 0.00 (0.00 to 0.00) | 0.00 (0.00 to 0.00) | 0.00 (0.00 to 0.00) |
+| S2 | 1.00 (1.00 to 1.00) | 1.00 (1.00 to 1.00) | 1.00 (1.00 to 1.00) | 0.00 (0.00 to 0.00) | 0.00 (0.00 to 0.00) |
+| S3 | 1.20 (1.16 to 1.31) | 0.20 (0.16 to 0.31) | 0.21 (0.16 to 0.47) | 0.20 (0.16 to 0.31) | 0.20 (0.16 to 0.31) |
+| S4 | 1.00 (1.00 to 1.00) | 0.00 (0.00 to 0.00) | 0.00 (0.00 to 0.00) | 0.00 (0.00 to 0.00) | 0.00 (0.00 to 0.00) |
+| S5 | 2.20 (2.16 to 2.31) | 1.20 (1.16 to 1.31) | 2.22 (2.10 to 2.31) | 1.17 (0.73 to 1.24) | 0.20 (0.16 to 0.31) |
+| S6 | 1.37 (1.20 to 1.49) | 1.00 (1.00 to 1.00) | 1.00 (1.00 to 1.00) | 0.19 (0.01 to 0.36) | 0.04 (0.02 to 0.04) |
+| S7 | 1.09 (1.06 to 1.14) | 1.08 (1.05 to 1.11) | 1.08 (1.05 to 1.11) | 0.09 (0.05 to 0.44) | 0.11 (0.05 to 0.29) |
+| S8 | 2.29 (2.18 to 2.45) | 1.06 (1.04 to 1.08) | 1.16 (0.84 to 1.18) | 0.08 (0.05 to 0.11) | 0.08 (0.05 to 0.11) |
+| S10 | 1.00 (1.00 to 1.00) | 0.00 (0.00 to 0.00) | 0.00 (0.00 to 0.00) | 0.00 (0.00 to 0.00) | 0.00 (0.00 to 0.00) |
+
+## Calls and games
+
+| Scenario | Measure | B0 | B2 | B4 | O1 | O2 |
+| --- | --- | --- | --- | --- | --- | --- |
+| S1 | call: late frames % | 77.0 (76.9 to 77.0) | 0.0 (0.0 to 0.0) | 0.0 (0.0 to 0.0) | 0.0 (0.0 to 0.0) | 0.0 (0.0 to 0.0) |
+| S1 | call: latency p95 ms | 505.0 (410.0 to 505.9) | 11.7 (11.5 to 12.0) | 11.7 (11.5 to 12.0) | 11.7 (11.5 to 12.0) | 11.7 (11.5 to 12.0) |
+| S2 | call: late frames % | 77.0 (76.9 to 77.0) | 55.5 (55.5 to 55.5) | 55.6 (55.5 to 55.6) | 0.9 (0.9 to 1.0) | 1.0 (0.9 to 1.0) |
+| S2 | call: latency p95 ms | 506.8 (505.9 to 508.1) | 501.7 (498.8 to 503.2) | 499.0 (498.2 to 503.6) | 20.8 (19.1 to 22.1) | 19.4 (18.5 to 20.8) |
+| S3 | game: late frames % | 52.7 (42.7 to 66.0) | 0.0 (0.0 to 0.0) | 0.3 (0.0 to 2.9) | 0.0 (0.0 to 0.0) | 0.0 (0.0 to 0.0) |
+| S3 | game: latency p95 ms | 366.7 (319.6 to 404.8) | 16.0 (14.9 to 17.9) | 32.3 (31.0 to 45.8) | 15.4 (14.6 to 17.7) | 15.4 (14.7 to 17.9) |
+| S4 | game: late frames % | 77.7 (77.7 to 77.7) | 0.0 (0.0 to 0.0) | 0.0 (0.0 to 0.0) | 0.0 (0.0 to 0.0) | 0.0 (0.0 to 0.0) |
+| S4 | game: latency p95 ms | 507.0 (506.6 to 507.1) | 11.3 (11.3 to 11.3) | 11.3 (11.3 to 11.3) | 11.3 (11.3 to 11.3) | 11.3 (11.3 to 11.3) |
+| S5 | call: late frames % | 94.1 (93.1 to 94.4) | 93.3 (85.8 to 94.3) | 78.7 (70.0 to 85.1) | 42.9 (15.3 to 77.0) | 0.2 (0.0 to 0.7) |
+| S5 | call: latency p95 ms | 490.3 (488.4 to 491.5) | 35.7 (35.5 to 36.5) | 1,513.0 (754.1 to 2,022.9) | 58.5 (50.7 to 74.7) | 28.4 (22.7 to 33.1) |
+| S5 | game: late frames % | 94.4 (93.9 to 94.4) | 0.0 (0.0 to 0.0) | 22.3 (19.1 to 37.6) | 0.0 (0.0 to 0.0) | 0.0 (0.0 to 0.0) |
+| S5 | game: latency p95 ms | 491.3 (489.6 to 492.4) | 18.8 (17.7 to 19.3) | 101.0 (91.8 to 408.4) | 18.6 (17.6 to 19.4) | 18.8 (17.7 to 19.6) |
+| S6 | call: late frames % | 94.3 (94.1 to 94.3) | 94.3 (94.2 to 94.3) | 94.4 (94.3 to 94.4) | 4.5 (1.2 to 7.8) | 1.7 (1.4 to 1.8) |
+| S6 | call: latency p95 ms | 504.4 (504.2 to 505.1) | 1,785.8 (1,731.7 to 1,815.1) | 2,063.1 (1,933.3 to 2,254.5) | 24.8 (24.3 to 25.5) | 16.9 (16.7 to 17.1) |
+| S7 | game: late frames % | 83.7 (83.3 to 83.8) | 83.2 (83.1 to 83.3) | 19.4 (19.4 to 19.5) | 0.6 (0.3 to 7.3) | 0.7 (0.4 to 4.8) |
+| S7 | game: latency p95 ms | 506.9 (506.5 to 507.4) | 798.7 (724.8 to 1,013.4) | 21.2 (17.2 to 23.0) | 19.4 (17.1 to 26.8) | 19.3 (16.9 to 24.8) |
+| S8 | call: late frames % | 65.3 (63.1 to 65.6) | 61.8 (18.7 to 65.0) | 30.8 (10.4 to 58.6) | 0.2 (0.1 to 0.6) | 0.0 (0.0 to 0.0) |
+| S8 | call: latency p95 ms | 500.6 (499.7 to 501.7) | 32.5 (32.0 to 33.6) | 84.2 (70.4 to 91.8) | 14.8 (14.1 to 15.5) | 12.6 (12.2 to 12.8) |
+| S8 | game: late frames % | 63.3 (62.6 to 64.2) | 0.0 (0.0 to 0.0) | 0.0 (0.0 to 0.0) | 0.0 (0.0 to 0.0) | 0.0 (0.0 to 0.0) |
+| S8 | game: latency p95 ms | 503.3 (502.5 to 504.5) | 11.5 (11.1 to 12.0) | 11.1 (10.7 to 12.7) | 13.3 (12.7 to 13.5) | 11.4 (11.0 to 12.0) |
+| S10 | call: late frames % | 77.0 (76.9 to 77.0) | 0.0 (0.0 to 0.0) | 0.0 (0.0 to 0.1) | 0.0 (0.0 to 0.0) | 0.0 (0.0 to 0.0) |
+| S10 | call: latency p95 ms | 505.6 (410.0 to 506.0) | 11.7 (11.5 to 12.0) | 11.7 (11.5 to 11.9) | 11.7 (11.5 to 11.9) | 11.7 (11.5 to 11.9) |
+
+## What the controller did, mean per run
+
+| Scenario | Configuration | labelled | relabelled | triggers | rechecks | rate_changes | watched | regressed | rolled_back | rejected |
+| --- | --- | --- | --- | --- | --- | --- | --- | --- | --- | --- |
+| S1 | B4 | 7.8 | 3.9 | 0.0 | 0.0 | 0.0 | 0.0 | 0.0 | 0.0 | 0.0 |
+| S1 | O1 | 3.9 | 0.0 | 12.2 | 8.2 | 0.0 | 1.0 | 0.0 | 0.0 | 0.0 |
+| S1 | O2 | 3.9 | 0.0 | 12.3 | 7.3 | 0.0 | 1.0 | 0.0 | 0.0 | 0.0 |
+| S2 | B4 | 7.8 | 3.9 | 0.0 | 0.0 | 0.0 | 0.0 | 0.0 | 0.0 | 0.0 |
+| S2 | O1 | 3.9 | 0.0 | 10.2 | 8.7 | 19.8 | 10.0 | 0.0 | 0.0 | 0.0 |
+| S2 | O2 | 3.9 | 0.0 | 10.7 | 8.9 | 20.1 | 10.0 | 0.0 | 0.0 | 0.0 |
+| S3 | B4 | 8.0 | 4.0 | 0.0 | 0.0 | 0.0 | 0.8 | 0.0 | 0.0 | 0.0 |
+| S3 | O1 | 6.8 | 2.8 | 16.0 | 11.4 | 4.1 | 7.2 | 0.1 | 0.1 | 0.0 |
+| S3 | O2 | 4.9 | 0.9 | 8.4 | 13.3 | 4.9 | 4.9 | 0.1 | 0.1 | 0.1 |
+| S4 | B4 | 4.8 | 2.4 | 0.0 | 0.0 | 0.0 | 0.8 | 0.0 | 0.0 | 0.0 |
+| S4 | O1 | 4.2 | 1.8 | 13.5 | 2.8 | 0.0 | 1.2 | 0.0 | 0.0 | 0.3 |
+| S4 | O2 | 3.1 | 0.7 | 13.8 | 3.2 | 0.0 | 1.5 | 0.0 | 0.0 | 0.2 |
+| S5 | B4 | 16.0 | 9.0 | 0.0 | 0.0 | 0.0 | 1.8 | 0.0 | 0.0 | 2.0 |
+| S5 | O1 | 10.9 | 3.9 | 43.5 | 13.8 | 27.0 | 22.8 | 0.2 | 0.0 | 0.0 |
+| S5 | O2 | 8.0 | 1.0 | 32.3 | 16.2 | 20.5 | 17.4 | 0.2 | 0.0 | 0.0 |
+| S6 | B4 | 72.2 | 39.5 | 0.0 | 0.0 | 0.0 | 2.2 | 0.0 | 0.0 | 8.9 |
+| S6 | O1 | 43.2 | 10.5 | 125.5 | 66.5 | 9.4 | 12.8 | 2.7 | 1.1 | 0.4 |
+| S6 | O2 | 35.3 | 2.6 | 129.4 | 67.2 | 8.0 | 8.2 | 0.0 | 0.0 | 0.0 |
+| S7 | B4 | 22.0 | 12.0 | 0.0 | 0.0 | 0.0 | 1.0 | 0.0 | 0.0 | 1.0 |
+| S7 | O1 | 10.8 | 0.8 | 11.8 | 28.7 | 3.1 | 4.1 | 0.0 | 0.0 | 0.0 |
+| S7 | O2 | 10.0 | 0.0 | 8.6 | 28.4 | 3.6 | 3.5 | 0.0 | 0.0 | 0.0 |
+| S8 | B4 | 80.1 | 46.5 | 0.0 | 0.0 | 0.0 | 5.8 | 0.0 | 0.0 | 14.0 |
+| S8 | O1 | 47.2 | 13.6 | 124.1 | 69.7 | 6.9 | 11.9 | 0.0 | 0.0 | 0.3 |
+| S8 | O2 | 37.7 | 4.1 | 113.5 | 73.3 | 7.6 | 9.1 | 0.0 | 0.0 | 0.2 |
+
+## Noise between identical runs
+
+| Scenario | Summed cost, 95th percentile of the difference |
+| --- | --- |
+| S1 | 0.000 |
+| S2 | 0.000 |
+| S3 | 0.000 |
+| S4 | 0.000 |
+| S5 | 0.000 |
+| S6 | 0.000 |
+| S7 | 0.000 |
+| S8 | 0.142 |
+| S10 | 0.000 |
+
